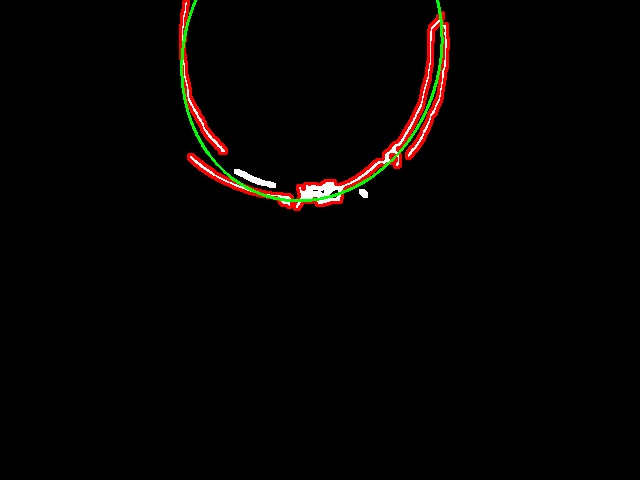
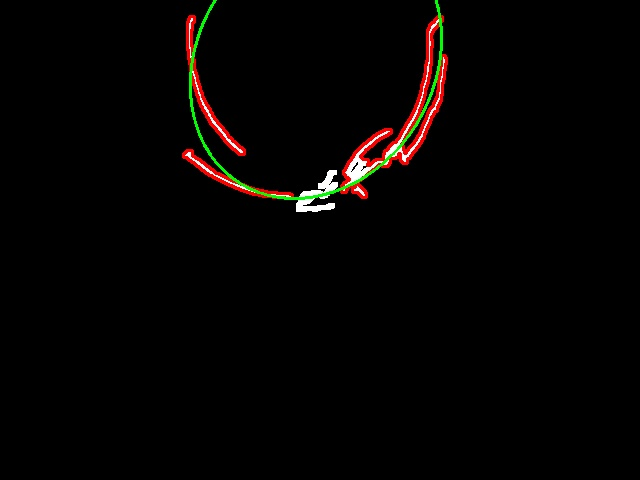
tried to find a rule for center and radius to ease the work of estimating the ellipsis

Changed region(s): [[0.25, 0.0, 0.7188, 0.4688]]

diff --git a/elipse_estimator copy.py b/elipse_estimator copy.py
@@ -21,6 +21,8 @@ def apply_circular_mask(image, center, radius):
 
 # Funzione principale
 def process_and_visualize(image_path, points_path, min_length):
+    global radius, center
+    
     # Leggi l'immagine e i punti per rimuovere regioni
     edges = load_and_preprocess_image(image_path)
     with open(points_path, 'r') as file:
@@ -39,8 +41,8 @@ def process_and_visualize(image_path, points_path, min_length):
     edges = remove_region(edges, points)
 
     # Applica una maschera circolare
-    center = (300, 60)  # Centro dell'immagine (modificabile)
-    radius = 150  # Raggio del cerchio (modificabile)
+    #center = (edges.shape[1] // 2, edges.shape[0] // 2)  # Centro dell'immagine (modificabile)
+    #radius = 100  # Raggio del cerchio (modificabile)
     edges = apply_circular_mask(edges, center, radius)
 
     # Dilatazione per chiudere i bordi
@@ -66,16 +68,23 @@ def process_and_visualize(image_path, points_path, min_length):
     if all_points is not None and len(all_points) >= 5:
         ellipse = cv2.fitEllipse(all_points)
         cv2.ellipse(output_img, ellipse, (0, 255, 0), 2)  # Ellisse verde
+        cv2.ellipse(original_img, ellipse, (0, 255, 0), 2)  # Disegna l'ellisse anche sull'originale
+
+    # Combina le due immagini affiancate
+    combined_img = np.hstack((original_img, output_img))
 
     # Mostra l'immagine risultante
-    cv2.imshow('Contorni Filtrati e Ellisse', output_img)
+    cv2.imshow('Immagine Originale e Filtrata con Ellisse', combined_img)
     cv2.waitKey(0)
     cv2.destroyAllWindows()
 
     # Salva l'immagine risultante (opzionale)
-    cv2.imwrite('output_filtered_ellisse_small.jpg', output_img)
+    cv2.imwrite('output_combined_ellisse.jpg', combined_img)
+
+radius = 500
+center = (350, 300)
+min_length = 300
 
 # Esegui il processo con un esempio
-process_and_visualize('images/frame_no_0409.png', 'points.txt', min_length=100)
+process_and_visualize('frames/frame_no_0785.png', 'points.txt', min_length=min_length)
 
-# trovare regole per centro, raggio e min_length

diff --git a/README.md b/README.md
@@ -10,6 +10,21 @@ Usare kmeans per ottenere una segmentazione più dettagliata. ✅
 usare il canny per dedurre un ellisse. Questa viene dedotta a partire da un centro che viene fornito. ✅
     
 
-    DA FARE: avere o una lista di punti o un'equazione che descrive il movimento del centro. OTTENERE UNA SORTA DI EQUAZIONE per centro, radius e min_length, parametri dell'ellisse.
+    ✅ avere o una lista di punti o un'equazione che descrive il movimento del centro. OTTENERE UNA SORTA DI EQUAZIONE per centro, radius e min_length, parametri dell'ellisse.
+
+    Utilizzando lo script dell'ellipse estimator coi 3 parametri ho provato circa 400 frame e ho ottenuto i seguenti risultati
+
+    Risultati dati:
+
+    radius: “f(x)\=0.0002816⋅x2+0.2938⋅x−28.405”
+
+    center x: “f(x)\=0.0000751⋅x2+0.082⋅x+250.987”
+    center y: “f(x)\=0.000777⋅x2−0.2065⋅x+5.47”
+
+    min length = “f(x)\=0.003077⋅x2−3.267⋅x+925.81”
     
-    DA FARE: unire ellisse e kmeans (usare roba in zona ellisse)
+    VEDERE SE VA ANCHE CON ALTRI VIDEO!!!
+
+    
+
+    DA FARE: unire ellisse e kmeans (usare come segmentazione roba racchiusa, ma anche fuori con una certa approssimazione, dall'ellisse)
